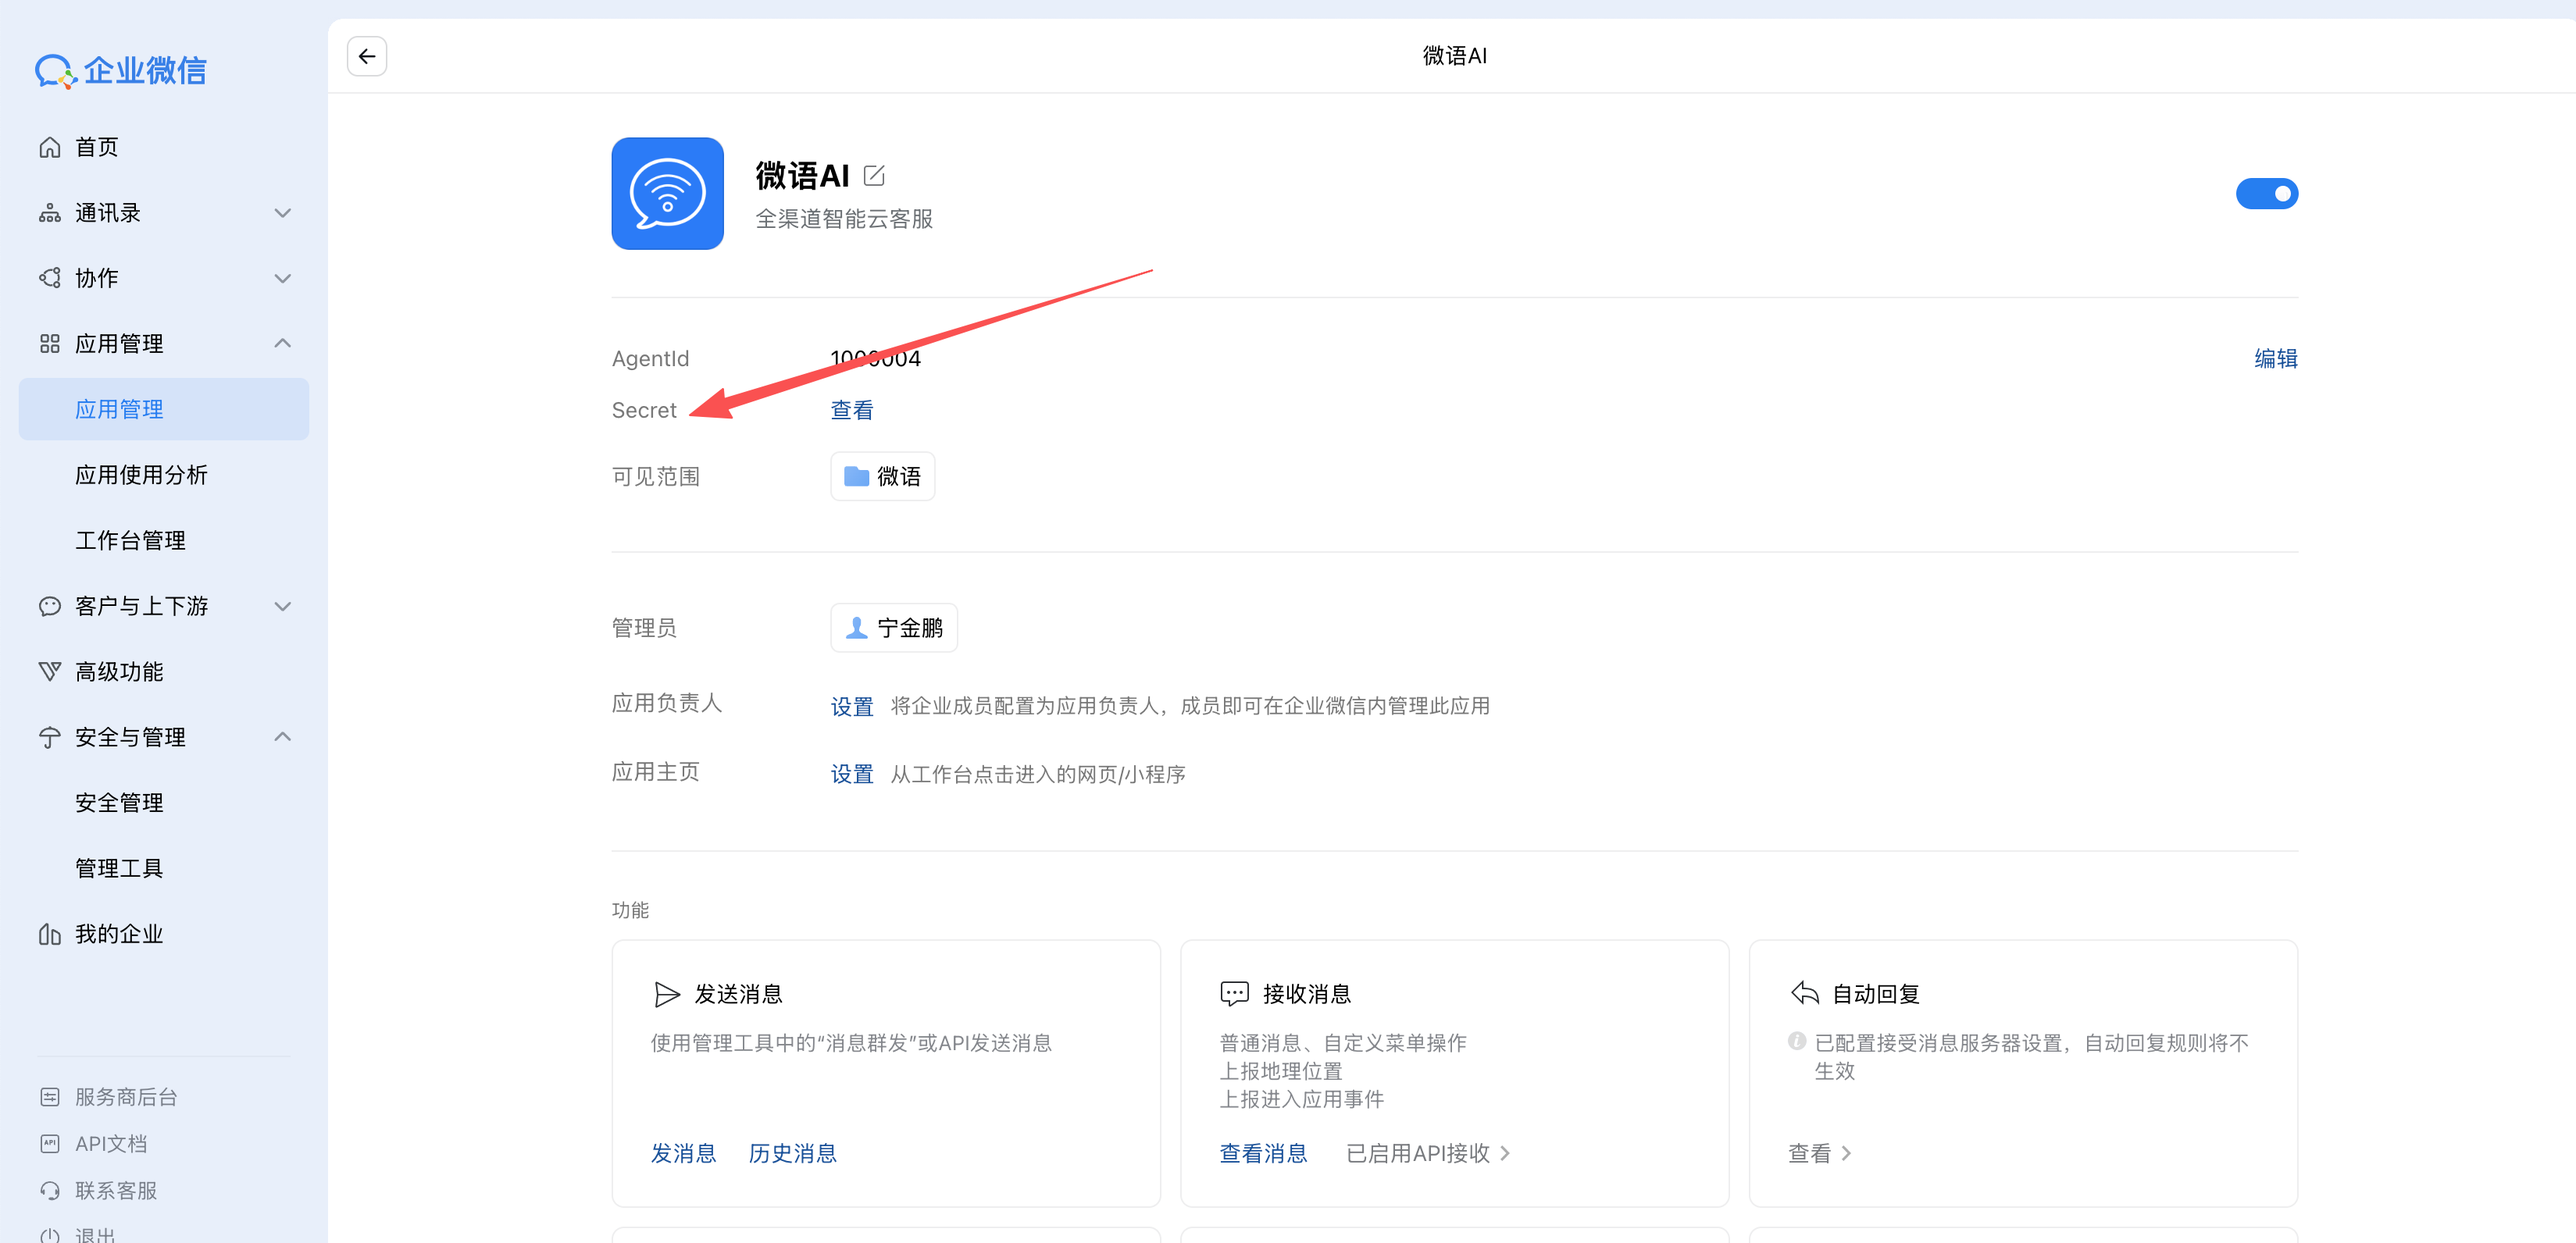
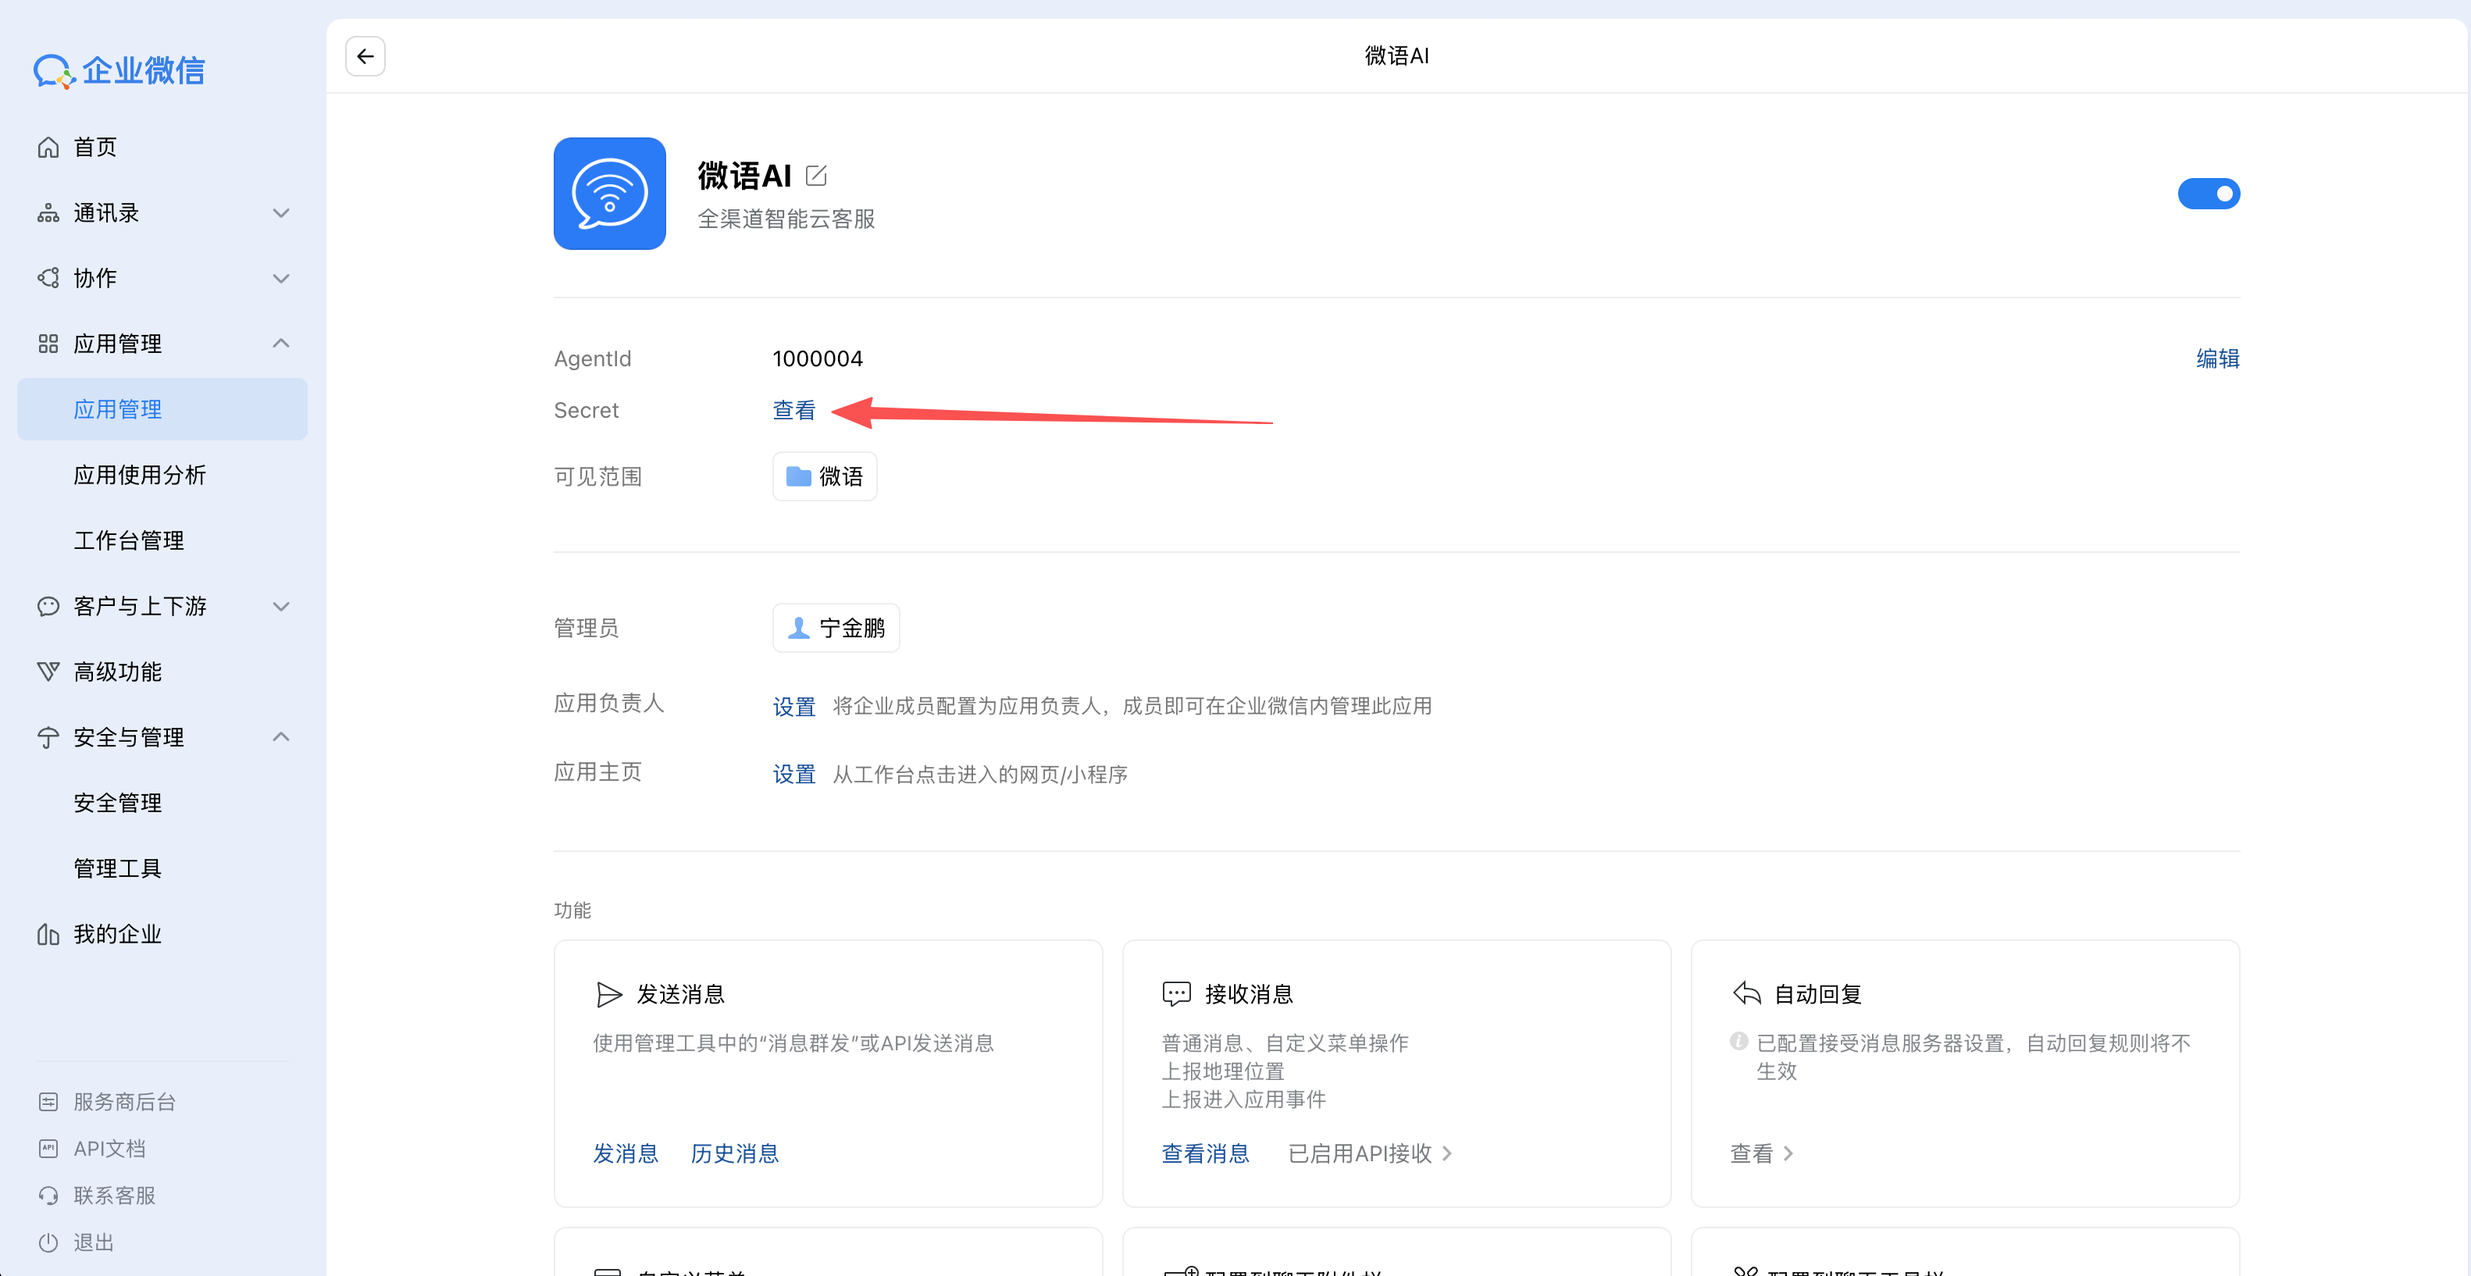
update

diff --git a/i18n/zh-CN/docusaurus-plugin-content-docs/current/channel/wechat_work.md b/i18n/zh-CN/docusaurus-plugin-content-docs/current/channel/wechat_work.md
@@ -129,6 +129,12 @@ sidebar_position: 11
 
 ![wechat_work_corpid](/img/channel/wechat/wechat_work_corpid.png)
 
+### AgentId 或 应用ID
+
+在管理后台→"应用管理"→"应用"→"自建"，点进某个应用，即可看到。
+
+![wechat_work_agentid](/img/channel/wechat/wechat_work_agentid.png)
+
 ### AppSecret 或 secret
 
 secret是企业应用里面用于保障数据安全的"钥匙"，每一个应用都有一个独立的访问密钥，为了保证数据的安全，secret务必不能泄漏。secret查看方法：
